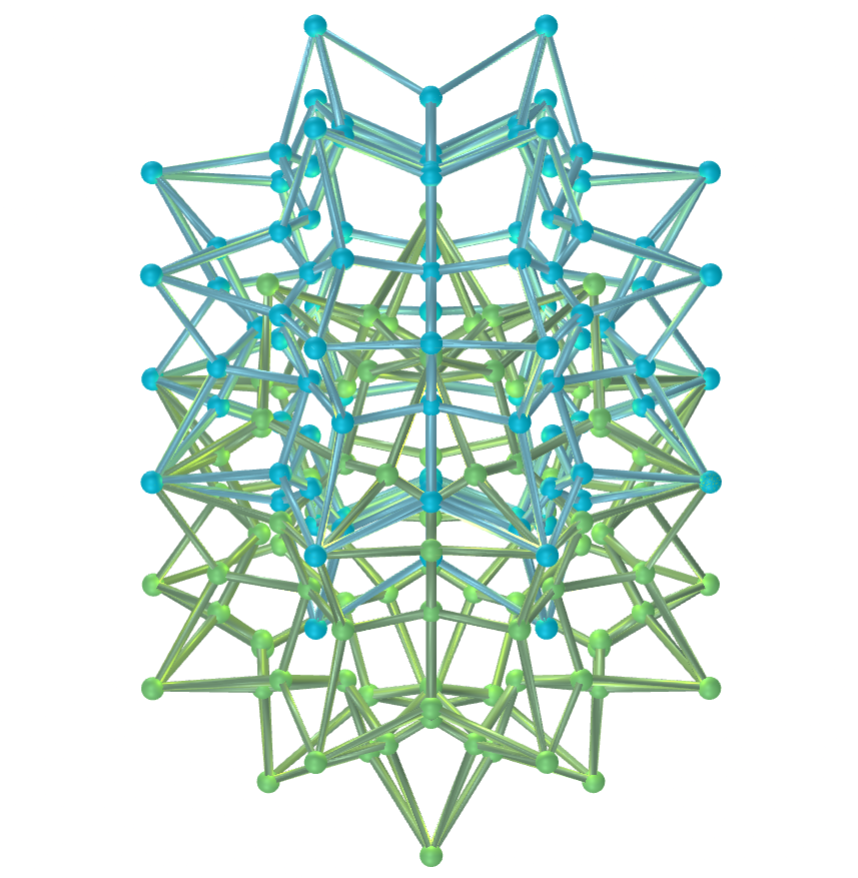
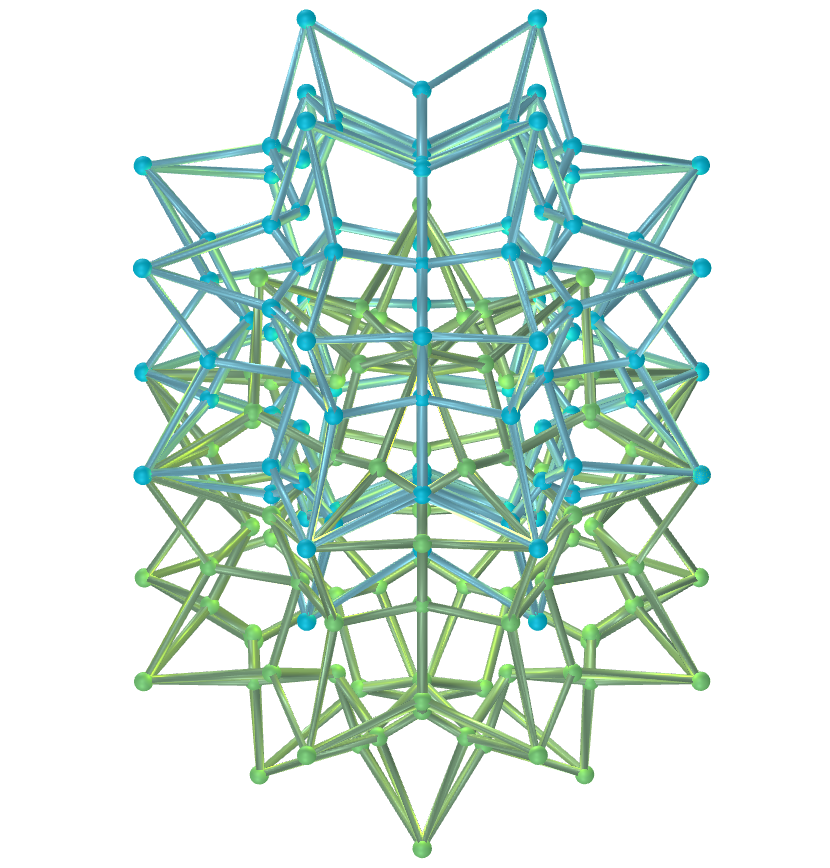
update

Changed region(s): [[0.1506, 0.0, 0.8735, 0.9954]]

diff --git a/vesica/vr/vesica25.htm b/vesica/vr/vesica25.htm
@@ -16,7 +16,7 @@
 		<a-assets>
 			<a-mixin id="mtl1" material="opacity:0.6; color: #f88;"></a-mixin>
 			<a-mixin id="ar"></a-mixin>
-			<a-mixin id="esfera" geometry="radius: 0.05; segments-height:40; segments-width:40;" material="metalness:0.4; roughness:0.5; side: double;"></a-mixin>
+			<a-mixin id="esfera" geometry="radius: 0.041; segments-height:40; segments-width:40;" material="metalness:0.4; roughness:0.5; side: double;"></a-mixin>
 			<a-mixin id="esfera1" material="color: #0df;" mixin="esfera">
 			<a-mixin id="esfera2" material="color: lightgreen;" mixin="esfera">
 			<a-mixin id="fg" gltf-model="gltf/RhombicuboctahedronK1.glb">
